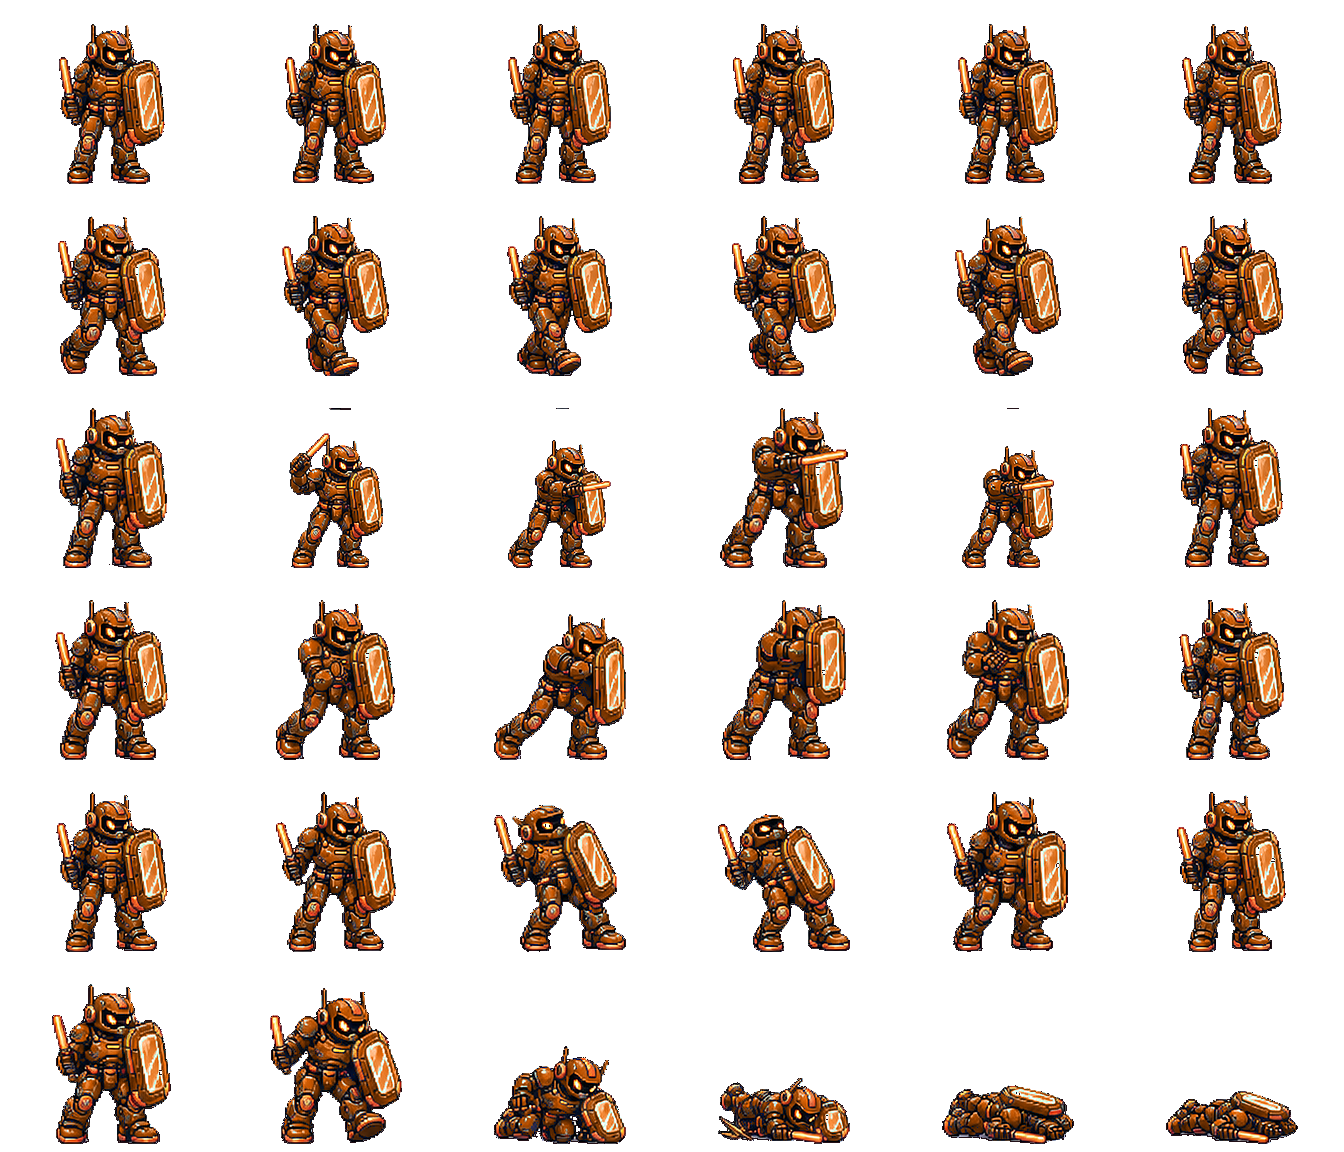
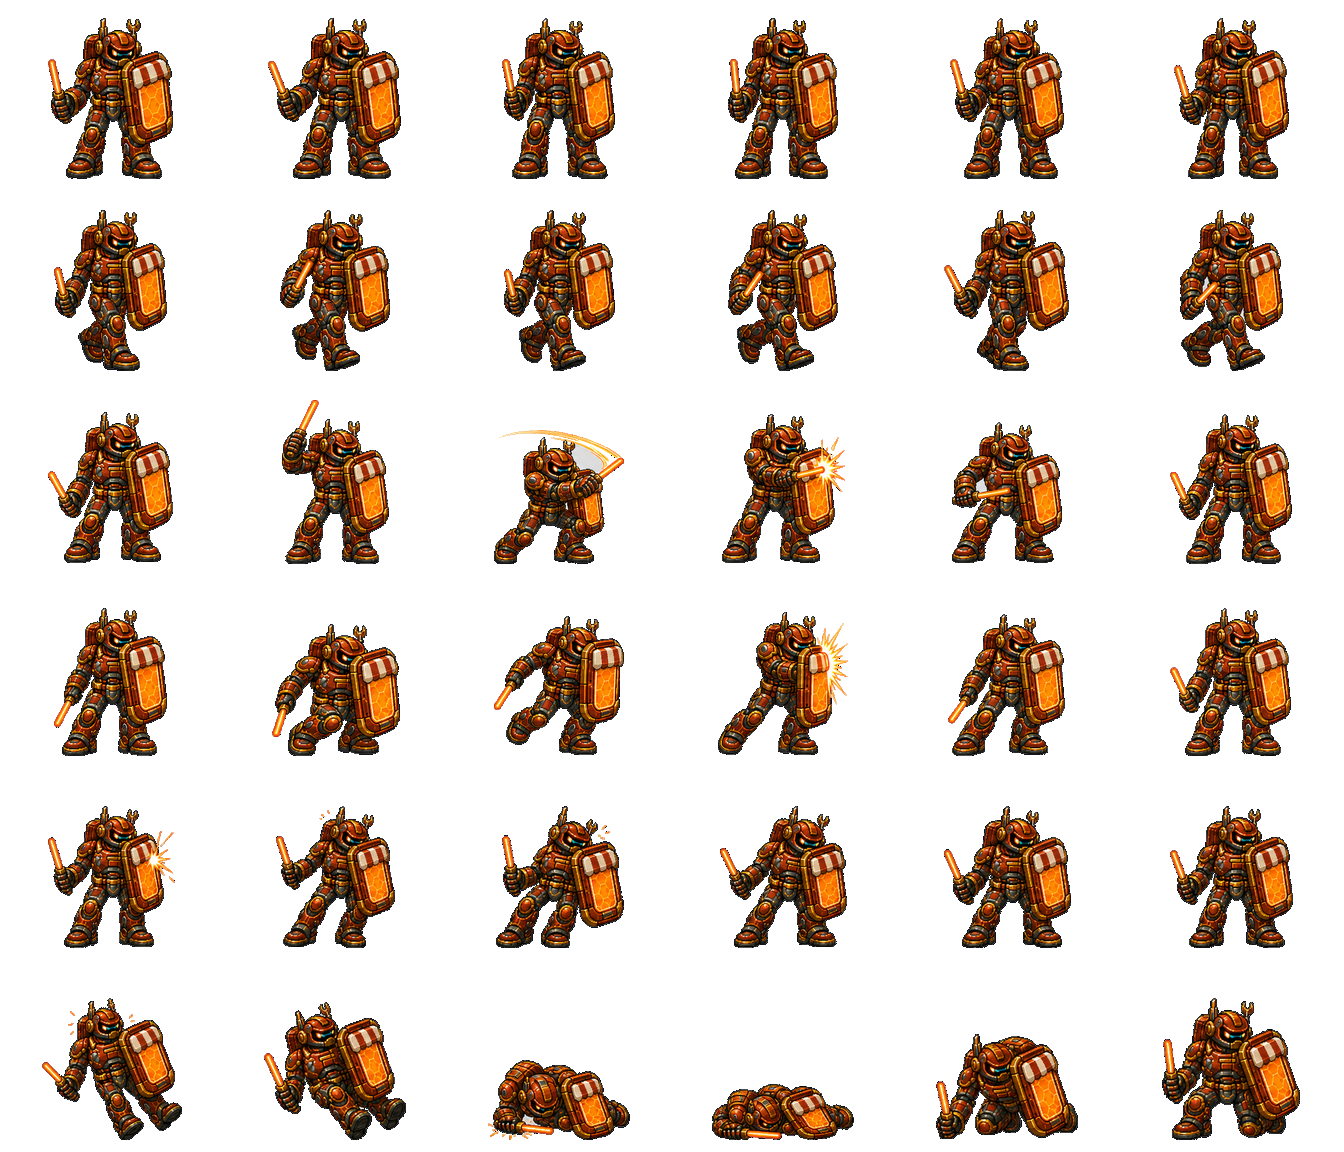
fix: restore independent enemies and TV hero motion

diff --git a/android/tools/build_strict_enemy_atlas.py b/android/tools/build_strict_enemy_atlas.py
@@ -181,8 +181,27 @@ def split_sheet(path: Path) -> list[Image.Image]:
     return frames
 
 
-def resize_actor(actor: Image.Image, size: tuple[int, int], tier: str) -> Image.Image:
-    if tier == "base":
+def remove_neutral_edge_halo(image: Image.Image) -> Image.Image:
+    """Darken only grey/white silhouette pixels that touch transparency."""
+    result = image.copy()
+    source = image.load()
+    target = result.load()
+    for y in range(image.height):
+        for x in range(image.width):
+            red, green, blue, alpha = source[x, y]
+            if not alpha or min(red, green, blue) < 96 \
+                    or max(red, green, blue) - min(red, green, blue) > 28:
+                continue
+            if any(nx < 0 or ny < 0 or nx >= image.width or ny >= image.height
+                   or source[nx, ny][3] == 0
+                   for nx, ny in ((x-1, y), (x+1, y), (x, y-1), (x, y+1))):
+                target[x, y] = (18, 20, 31, 255)
+    return result
+
+
+def resize_actor(actor: Image.Image, size: tuple[int, int], tier: str,
+                 fine_pixels: bool = False) -> Image.Image:
+    if tier == "base" and not fine_pixels:
         half = (max(2, round(size[0] / 2)), max(2, round(size[1] / 2)))
         small = hard_alpha(actor.resize(half, Image.Resampling.LANCZOS))
         return small.resize((half[0] * 2, half[1] * 2), Image.Resampling.NEAREST)
@@ -193,10 +212,12 @@ def resize_actor(actor: Image.Image, size: tuple[int, int], tier: str) -> Image.
         )
         rgb.putalpha(resized.getchannel("A"))
         resized = rgb
-    return hard_alpha(resized, 48)
+    resized = hard_alpha(resized, 48)
+    return remove_neutral_edge_halo(resized) if fine_pixels else resized
 
 
-def build_tier(frames: list[Image.Image], tier: str) -> Image.Image:
+def build_tier(frames: list[Image.Image], tier: str,
+               fine_pixels: bool = False) -> Image.Image:
     cell, safe, bottom = TIERS[tier]
     # Calibrate the actor scale from idle/walk only. Attack effects and prone
     # silhouettes are naturally wider and must not shrink every standing pose.
@@ -231,7 +252,7 @@ def build_tier(frames: list[Image.Image], tier: str) -> Image.Image:
         fit = min(1.0, safe[0] / target[0], safe[1] / target[1])
         if fit < 1.0:
             target = (max(2, round(target[0] * fit)), max(2, round(target[1] * fit)))
-        actor = resize_actor(frame, target, tier)
+        actor = resize_actor(frame, target, tier, fine_pixels)
         x = (cell[0] - actor.width) // 2
         y = cell[1] - bottom - actor.height
         if tier == "base":
@@ -273,6 +294,8 @@ def main() -> None:
     parser.add_argument("enemy")
     parser.add_argument("source_dir", type=Path)
     parser.add_argument("assets", type=Path)
+    parser.add_argument("--fine-pixels", action="store_true",
+                        help="preserve independent 1x detail instead of manufacturing 2x blocks")
     args = parser.parse_args()
     model_sheet = args.source_dir / "model_sheet.png"
     if not model_sheet.is_file():
@@ -283,9 +306,9 @@ def main() -> None:
     frames = []
     for sheet in SHEETS: frames.extend(split_sheet(args.source_dir / sheet))
     if len(frames) != 36: raise ValueError(len(frames))
-    base = build_tier(frames, "base")
-    runtime = build_tier(frames, "runtime")
-    tv = build_tier(frames, "tv")
+    base = build_tier(frames, "base", args.fine_pixels)
+    runtime = build_tier(frames, "runtime", args.fine_pixels)
+    tv = build_tier(frames, "tv", args.fine_pixels)
     save_png(base, args.assets / "enemies" / f"{args.enemy}_anim.png")
     save_png(runtime, args.assets / "runtime/enemies" / f"{args.enemy}_anim.png")
     save_png(tv, args.assets / "tv/enemies" / f"{args.enemy}_anim.png")

diff --git a/android/app/src/main/java/com/familyforce/neonstreets/GameView.java b/android/app/src/main/java/com/familyforce/neonstreets/GameView.java
@@ -1613,9 +1613,15 @@ public final class GameView extends SurfaceView implements SurfaceHolder.Callbac
 
     private Bitmap loadHeroAnimationAtlas(int hero) {
         String stem = customerProfile.heroAssetStems[safeHeroIndex(hero)] + "_anim.png";
-        Bitmap atlas = useUhdCharacterAssets() ? loadBitmap("uhd/heroes/" + stem) : null;
-        if (atlas == null) atlas = loadBitmap("runtime/heroes/" + stem);
-        if (atlas == null && useReducedMemoryAssets()) atlas = loadBitmap("tv/heroes/" + stem);
+        boolean reduced = useReducedMemoryAssets();
+        // Android TV must not decode the 28–50 MiB Runtime/UHD atlas before
+        // trying its compact animated tier. An OOM here previously left the
+        // actor moving through the world with only its static fallback image.
+        Bitmap atlas = reduced ? loadBitmap("tv/heroes/" + stem) : null;
+        if (atlas == null && !reduced && useUhdCharacterAssets()) {
+            atlas = loadBitmap("uhd/heroes/" + stem);
+        }
+        if (atlas == null && !reduced) atlas = loadBitmap("runtime/heroes/" + stem);
         if (atlas == null) atlas = loadBitmap("heroes/" + stem);
         return atlas;
     }
@@ -1654,15 +1660,16 @@ public final class GameView extends SurfaceView implements SurfaceHolder.Callbac
 
     private Bitmap[] loadHeroAnimationClips(int hero) {
         String stem = customerProfile.heroAssetStems[safeHeroIndex(hero)];
-        Bitmap[] clips = useUhdCharacterAssets()
-                ? loadClipSet("uhd/clips/heroes/" + stem + "/", HERO_ANIM_CLIP_NAMES,
-                HERO_ANIM_COLUMNS) : null;
-        if (clips == null) {
-            clips = loadClipSet("runtime/clips/heroes/" + stem + "/",
-                    HERO_ANIM_CLIP_NAMES, HERO_ANIM_COLUMNS);
+        boolean reduced = useReducedMemoryAssets();
+        Bitmap[] clips = reduced
+                ? loadClipSet("tv/clips/heroes/" + stem + "/",
+                HERO_ANIM_CLIP_NAMES, HERO_ANIM_COLUMNS) : null;
+        if (clips == null && !reduced && useUhdCharacterAssets()) {
+            clips = loadClipSet("uhd/clips/heroes/" + stem + "/", HERO_ANIM_CLIP_NAMES,
+                    HERO_ANIM_COLUMNS);
         }
-        if (clips == null && useReducedMemoryAssets()) {
-            clips = loadClipSet("tv/clips/heroes/" + stem + "/",
+        if (clips == null && !reduced) {
+            clips = loadClipSet("runtime/clips/heroes/" + stem + "/",
                     HERO_ANIM_CLIP_NAMES, HERO_ANIM_COLUMNS);
         }
         if (clips == null) {

diff --git a/android/tools/test_tv_hero_animation_loading.py b/android/tools/test_tv_hero_animation_loading.py
@@ -1,0 +1,46 @@
+#!/usr/bin/env python3
+"""Prevent Android TV from silently degrading animated heroes to still art."""
+
+from pathlib import Path
+import hashlib
+
+from PIL import Image
+
+
+ROOT = Path(__file__).resolve().parents[1]
+ASSETS = ROOT / "app/src/main/assets"
+GAME = (ROOT / "app/src/main/java/com/familyforce/neonstreets/GameView.java").read_text()
+
+
+def method(name: str) -> str:
+    start = GAME.index(f" {name}(")
+    brace = GAME.index("{", start)
+    depth = 0
+    for index in range(brace, len(GAME)):
+        if GAME[index] == "{": depth += 1
+        elif GAME[index] == "}":
+            depth -= 1
+            if depth == 0: return GAME[brace:index + 1]
+    raise AssertionError(name)
+
+
+atlas_loader = method("loadHeroAnimationAtlas")
+clip_loader = method("loadHeroAnimationClips")
+assert atlas_loader.index('loadBitmap("tv/heroes/"') < atlas_loader.index('loadBitmap("runtime/heroes/"')
+assert clip_loader.index('loadClipSet("tv/clips/heroes/"') < clip_loader.index('loadClipSet("runtime/clips/heroes/"')
+assert "if (atlas == null) atlas = loadBitmap(\"heroes/\" + stem);" in atlas_loader
+assert 'loadClipSet("clips/heroes/"' in clip_loader
+
+for actor in ("parent", "adam", "shaikha", "sulaiman"):
+    path = ASSETS / "tv/heroes" / f"{actor}_anim.png"
+    with Image.open(path).convert("RGBA") as atlas:
+        assert atlas.width % 8 == 0 and atlas.height % 11 == 0, path
+        cell_width, cell_height = atlas.width // 8, atlas.height // 11
+        for row in range(11):
+            frames = [atlas.crop((column * cell_width, row * cell_height,
+                                  (column + 1) * cell_width, (row + 1) * cell_height))
+                      for column in range(8)]
+            digests = {hashlib.sha256(frame.tobytes()).digest() for frame in frames}
+            assert len(digests) >= 3, (actor, row, "static animation row")
+
+print("TV hero animation loading: PASS (TV-first + 4 heroes × 11 moving rows)")

diff --git a/android/tools/test_enemy_pixel_density_contract.py b/android/tools/test_enemy_pixel_density_contract.py
@@ -37,7 +37,6 @@ def frames(atlas: Image.Image):
                               (column + 1) * cell_width, (row + 1) * cell_height))
 
 
-density_records = {}
 for actor in ACTORS:
     height = render_height(actor)
     for tier, (folder, lower, upper, gutter) in TIERS.items():
@@ -54,7 +53,6 @@ for actor in ACTORS:
                 )
             standing_heights = [box[3] - box[1] for box in boxes[:12]]
             density = statistics.median(standing_heights) / height
-            density_records[(actor, tier)] = density
             assert lower <= density <= upper, (
                 actor, tier, f"APGU {density:.3f} outside {lower:.2f}–{upper:.2f}"
             )
@@ -65,9 +63,22 @@ for actor in ACTORS:
                     actor, "base is manufactured from coarse exact 2x2 clusters"
                 )
 
+def cropped_alpha_frames(actor: str, folder: str):
+    with Image.open(ASSETS / folder / f"{actor}_anim.png").convert("RGBA") as atlas:
+        result = []
+        for cell in frames(atlas):
+            alpha = cell.getchannel("A")
+            box = alpha.getbbox()
+            result.append((alpha.crop(box).size, alpha.crop(box).tobytes()))
+        return result
+
+
+# A palette swap retains the reference's alpha silhouette byte-for-byte. The
+# two rejected v0.50.1 assets did exactly that; independent characters must not.
 for actor, reference in (("market_enforcer", "shield_guard"), ("keeper_7", "striker")):
-    for tier in TIERS:
-        ratio = density_records[(actor, tier)] / density_records[(reference, tier)]
-        assert .96 <= ratio <= 1.04, (actor, tier, reference, f"density ratio {ratio:.3f}")
+    for folder, *_ in TIERS.values():
+        assert cropped_alpha_frames(actor, folder) != cropped_alpha_frames(reference, folder), (
+            actor, folder, "is a recoloured reference silhouette"
+        )
 
 print(f"Enemy pixel density contract: PASS ({len(ACTORS)} actors × {len(TIERS)} tiers)")

diff --git a/android/app/src/main/java/com/familyforce/neonstreets/EnemyArchetype.java b/android/app/src/main/java/com/familyforce/neonstreets/EnemyArchetype.java
@@ -24,11 +24,8 @@ final class EnemyArchetype {
             type("striker", "STRIKER", 76, 1.48f, 9, 56, 26, 500, 116f, 11, 16, 0, 0),
             type("shield_guard", "SHIELD GUARD", 128, .88f, 11, 58, 29, 800, 132f, 10, 12, 42, 0),
             type("lantern_courier", "LANTERN COURIER", 74, 1.62f, 9, 54, 25, 520, 116f, 14, 15, 0, 0),
-            // These heights are part of the pixel-density contract. Enlarging
-            // the same source figure here would manufacture visibly larger
-            // pixels even when the atlas file itself has high dimensions.
             type("market_enforcer", "MARKET ENFORCER", 210, .82f, 15, 66, 31, 1450, 132f, 10, 12, 55, RANK_MINI_BOSS),
-            type("keeper_7", "KEEPER-7", 430, .75f, 20, 92, 35, 3800, 128f, 10, 12, 0, RANK_BOSS),
+            type("keeper_7", "KEEPER-7", 430, .75f, 20, 92, 35, 3800, 136f, 10, 12, 0, RANK_BOSS),
             type("rail_runner", "RAIL RUNNER", 80, 1.82f, 10, 60, 25, 580, 118f, 15, 16, 0, 0),
             type("signal_warden", "SIGNAL WARDEN", 225, .86f, 16, 70, 32, 1550, 150f, 10, 12, 60, RANK_MINI_BOSS),
             type("railmaster_9", "RAILMASTER-9", 470, .74f, 21, 96, 36, 4100, 166f, 10, 12, 0, RANK_BOSS),

diff --git a/android/docs/PIXEL_DENSITY_STANDARD_AR.md b/android/docs/PIXEL_DENSITY_STANDARD_AR.md
@@ -35,8 +35,8 @@ Striker وShield Guard هما المرجع البصري المعتمد. تقاس
 6. تزال حافة الهالة البيضاء الملامسة للشفافية مع إبقاء اللمعان الداخلي.
 7. اختلاف ارتفاع الوقوف والمشي لا يتجاوز 5% من ارتفاع الخلية.
 8. أي شخصية خارج نطاق APGU تفشل اختبار الإصدار ولا تدخل APK.
-9. الشخصية المشتقة من مرجع معتمد تطابق APGU الخاص بذلك المرجع بفارق أقصى
-   `4%`؛ النطاق العام ليس مبررًا لاختيار قيمة عشوائية داخله.
+9. يستخدم Striker وShield Guard لقياس الوضوح فقط. يمنع نسخ قناع جسمهما أو
+   إعادة تلوينه لصناعة عدو آخر؛ لكل عدو model sheet وإطارات وهوية مستقلة.
 
 ## التحقق
 
